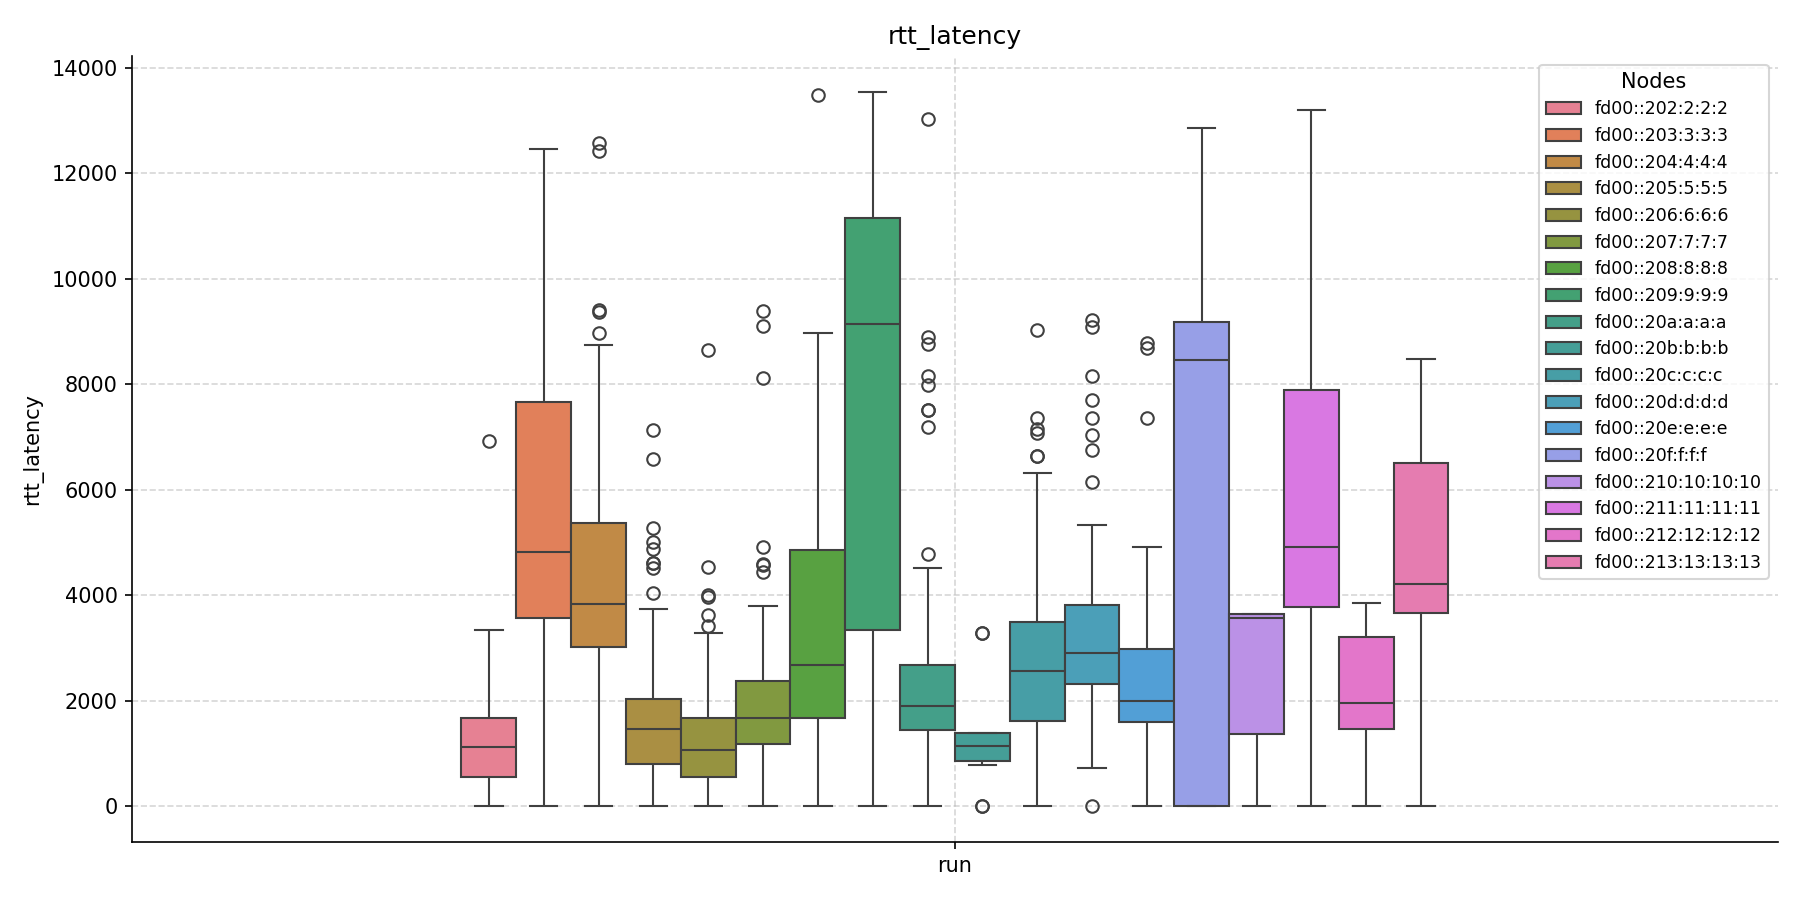
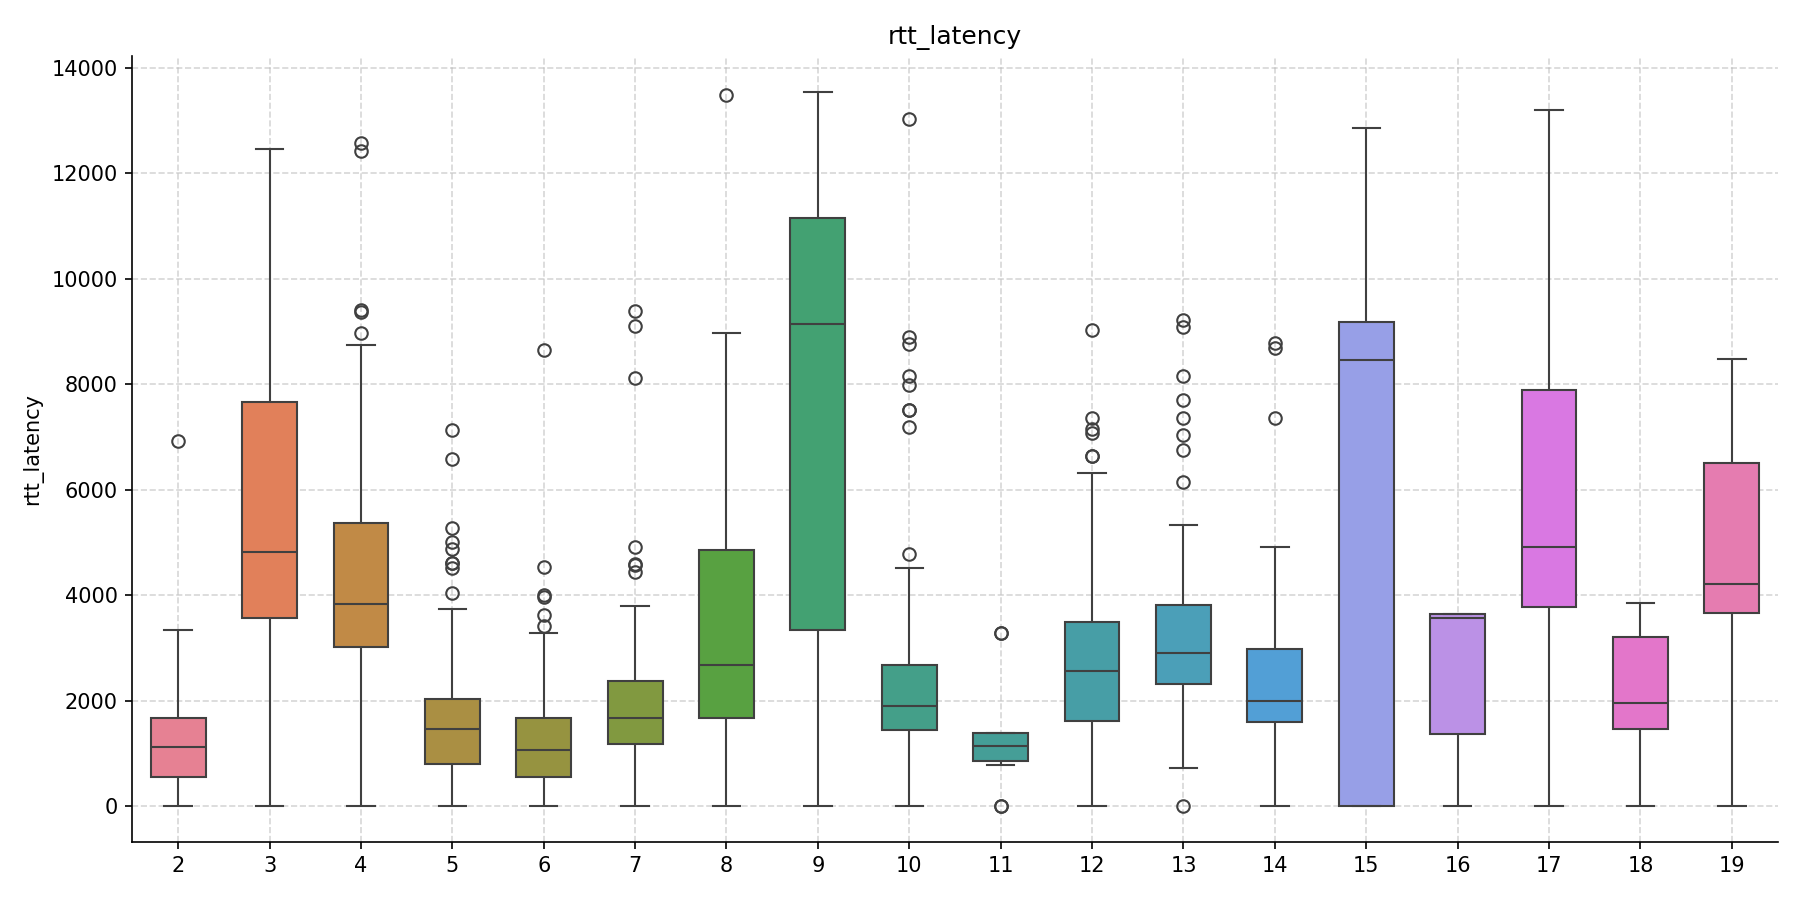
review: adjustments in plots

diff --git a/json2cooja/library/plot_network.py b/json2cooja/library/plot_network.py
@@ -11,51 +11,25 @@ def _build_network_plot(
     paths: list[list[str]] = None
     ) -> None:
     """
-    Plota uma rede de nós com dois discos concêntricos para cada nó:
-    - Disco de comunicação (menor, verde)           - raio = ``radius``
-    - Disco de interferência (maior, cinza-claro)   - raio = ``interference_radius``
-
-    Conexões (arestas) são traçadas **apenas** quando a distância
-    entre dois nós é menor ou igual a ``radius``.
-
-    Parâmetros
-    ----------
-    points : list[tuple[float, float]]
-        Lista de coordenadas (x, y) dos nós.
-    region : tuple[float, float, float, float]
-        Retângulo de visualização na forma (x_min, y_min, x_max, y_max).
-    radius : float
-        Raio de comunicação do nó (disco interno - verde).
-    interference_radius : float
-        Raio de interferência do nó (disco externo - cinza).  
-        Deve ser ≥ ``radius``.
-    -----------
-    Parâmetros adicionais:
-    - paths: lista de caminhos. Cada caminho é uma lista de partes.
-      Cada parte é uma sublista com 2 strings: expressão para x(t) e y(t), com t ∈ [0,1].
-
-      Exemplo de paths:
-      [
-          [ ["x_expr1", "y_expr1"] ],                        # Caminho com 1 parte
-          [ ["x_expr1", "y_expr1"], ["x_expr2", "y_expr2"] ] # Caminho com 2 partes
-      ]
+    Plota uma rede de nós com discos de comunicação/interferência e caminhos (paths).
+    Agora cada curva (path) recebe um label com o número do node correspondente.
     """
     if interference_radius < radius:
         raise ValueError("interference_radius deve ser maior ou igual a radius")
 
     fig, ax = plt.subplots(figsize=(10, 8))
 
-    # ~~~ Configuração do plot ~~~~~~~~~~~~~~~~~~~~~~~~~~~~~~~~~~~~~~~~~~~~~~~~
+    # Configuração do plot
     ax.set_xlim(region[0] + region[0]/10, region[2] + region[2]/10)
     ax.set_ylim(region[1] + region[1]/10, region[3] + region[3]/10)
     ax.set_aspect("equal")
     ax.grid(True, linestyle="--", alpha=0.7)
     ax.set_title(
-        f"Net  {len(points)} fixed nodes "
+        f"Net {len(points)} fixed nodes "
         f"(comm radius = {radius}, interf radius = {interference_radius})"
     )
 
-    # região retangular
+    # Região retangular
     ax.add_patch(
         plt.Rectangle(
             (region[0], region[1]),
@@ -68,7 +42,7 @@ def _build_network_plot(
         )
     )
 
-    # ~~~ Arestas de comunicação ~~~~~~~~~~~~~~~~~~~~~~~~~~~~~~~~~~~~~~~~~~~~~
+    # Arestas de comunicação
     for i in range(len(points)):
         for j in range(i + 1, len(points)):
             d = np.hypot(points[i][0] - points[j][0],
@@ -82,9 +56,8 @@ def _build_network_plot(
                     alpha=0.7,
                 )
 
-    # ~~~ Discos de interferência (maiores – cinza) + comunicação (menores – verde) ~
+    # Discos
     for (x, y) in points:
-        # disco de interferência (desenhado primeiro)
         ax.add_patch(
             Circle(
                 (x, y),
@@ -95,26 +68,26 @@ def _build_network_plot(
                 linewidth=1.0,
             )
         )
-        # disco de comunicação (desenhado por cima)
         ax.add_patch(
             Circle(
                 (x, y),
                 radius,
-                facecolor="#4ECDC4",   # verde-água
+                facecolor="#4ECDC4",
                 edgecolor="green",
                 alpha=0.35,
                 linewidth=1.0,
             )
         )
 
-    # ~~~ Nós (marcadores) ~~~~~~~~~~~~~~~~~~~~~~~~~~~~~~~~~~~~~~~~~~~~~~~~~~~
+    # Nós fixos
     for i, (x, y) in enumerate(points):
         ax.plot(x, y, "o", markersize=8, color="gray")
-        ax.text(x, y, str(i+1), color="black",
+        ax.text(x, y, str(i + 1), color="black",
                 ha="center", va="center", fontsize=8)
 
-    # ~~~ Plotagem dos caminhos (paths) ~~~~~~~~~~~~~~~~~~~~~~~~~~~~~~~~~~~~~~~
+    # Caminhos móveis (paths)
     if paths:
+        cmap = plt.get_cmap("tab10")
         for path_idx, path in enumerate(paths):
             if not isinstance(path, list) or any(len(part) != 2 for part in path):
                 print(f"Atenção: Caminho ignorado por estrutura inválida: {path}")
@@ -136,8 +109,7 @@ def _build_network_plot(
                 try:
                     x_eval = eval(x_expr, {"np": np, "t": t_local})
                     y_eval = eval(y_expr, {"np": np, "t": t_local})
-                    
-                    # Ajuste caso o resultado seja escalar
+
                     if np.isscalar(x_eval):
                         x_vals = np.full_like(t_local, x_eval, dtype=float)
                     else:
@@ -147,7 +119,7 @@ def _build_network_plot(
                         y_vals = np.full_like(t_local, y_eval, dtype=float)
                     else:
                         y_vals = np.array(y_eval, dtype=float)
-                        
+
                 except Exception as e:
                     print(f"Erro ao avaliar parte {part_idx} do caminho {path_idx}: {e}")
                     continue
@@ -155,8 +127,19 @@ def _build_network_plot(
                 xs_total.extend(x_vals)
                 ys_total.extend(y_vals)
 
-            ax.plot(xs_total, ys_total, linestyle='--', color='blue', alpha=0.6)
-   
+            color = cmap(path_idx % 10)
+            nodeNumber = path_idx + len(points) + 1
+            label = f"Node {nodeNumber}"
+            ax.plot(xs_total, ys_total, linestyle='--', color=color, alpha=0.8, label=label)
+
+            # Adiciona texto próximo ao final da trajetória
+            if len(xs_total) > 0 and len(ys_total) > 0:
+                ax.text(xs_total[-1], ys_total[-1], f"{nodeNumber}",
+                        fontsize=9, color=color, weight="bold",
+                        ha="left", va="center")
+
+        ax.legend(loc="upper right", fontsize="small", title="Mobile Nodes")
+
 def plot_network(
     file_path: str,
     sim_model: SimulationConfig
@@ -170,6 +153,6 @@ def plot_network(
     radius = sim_model["radiusOfReach"]
     interference_radius = sim_model["radiusOfInter"]
     paths = [list[str](mote["functionPath"]) for mote in mobile_motes]
-    
+
     _build_network_plot(points, region, radius, interference_radius, paths)
     plt.savefig(file_path)

diff --git a/log-analysis/library/process_log_metrics_packet.py b/log-analysis/library/process_log_metrics_packet.py
@@ -1,6 +1,7 @@
 import json
 import re
 import pandas as pd
+import ipaddress
 from pathlib import Path
 import matplotlib.pyplot as plt
 
@@ -40,6 +41,11 @@ def convert_log_to_csv(log_path: Path, csv_output: Path) -> pd.DataFrame:
     df.to_csv(csv_output, index=False)
     return df
 
+def _last_hextet_decimal(addr: str) -> int:
+    addr = addr.split('%', 1)[0]
+    ipv6 = ipaddress.IPv6Address(addr)
+    hextets = ipv6.exploded.split(':')  
+    return int(hextets[-1], 16)
 
 def process_log(
     log_path: Path,
@@ -113,12 +119,19 @@ def process_log(
             plt.plot(
                 node_df["root_time_now"],
                 node_df[metric],
-                label=f"{node}",
+                label=f"{_last_hextet_decimal(node)}",
             )
         plt.title(f"{metric} over time")
         plt.xlabel("root_time_now (ms)")
         plt.ylabel(metric)
-        plt.legend(loc="upper left", fontsize="small")
+        
+        plt.legend(
+            loc="center left",           
+            bbox_to_anchor=(1.02, 0.5),  
+            fontsize="small",
+            frameon=False
+        )
+        
         plt.grid(True, linestyle="--", alpha=0.5)
         plt.tight_layout()
 
@@ -127,8 +140,9 @@ def process_log(
         plt.savefig(out_path, dpi=150)
         plt.close()
 
-    if "label" not in df.columns:
-        df["label"] = "run"
+    node_order = sorted(df["node"].astype(str).unique())
+    node_to_labelnum = {n: i + 2 for i, n in enumerate(node_order)}
+    df["label"] = df["node"].astype(str).map(node_to_labelnum)
 
     for metric in metrics_cols:
         safe_metric = re.sub(r"[^A-Za-z0-9_\-]+", "_", metric).strip("_")
@@ -146,10 +160,11 @@ def process_log(
                 x="label", y=metric, hue="node",
                 ax=ax, showcaps=True, width=0.6
             )
+            if ax.get_legend():
+                ax.get_legend().remove()
             ax.set_title(metric)
             ax.set_xlabel("")
             ax.set_ylabel(metric)
-            ax.legend(title="Nodes", loc="best", fontsize="small")
             ax.grid(True, linestyle="--", alpha=0.5)
             sns.despine(ax=ax)
             fig.tight_layout()
@@ -166,7 +181,7 @@ def process_log(
             bp = ax.boxplot(data, patch_artist=True, widths=0.6, showcaps=True)
             ax.set_xticks(range(1, len(cats) + 1))
             ax.set_xticklabels(cats, rotation=20, ha="right")
-            ax.set_title("Análise de Interferência (sem seaborn)")
+            ax.set_title(f"{metric} (non seaborn)")
             ax.set_xlabel("")
             ax.set_ylabel(metric)
             ax.grid(True, linestyle="--", alpha=0.5)

diff --git a/json2cooja/README.md b/json2cooja/README.md
@@ -5,7 +5,7 @@ It automates the generation of simulation scripts based on structured input data
 
 ---
 
-## 📁 Project Structure
+## 📁 Directory Structure
 
 ```
 json2cooja/
@@ -19,6 +19,7 @@ json2cooja/
 │   ├── parse_json_pos.py
 │   └── replace_xml.py
 └── output/
+    ├── network.png
     ├── simulation.xml
     └── positions.dat
 ```
